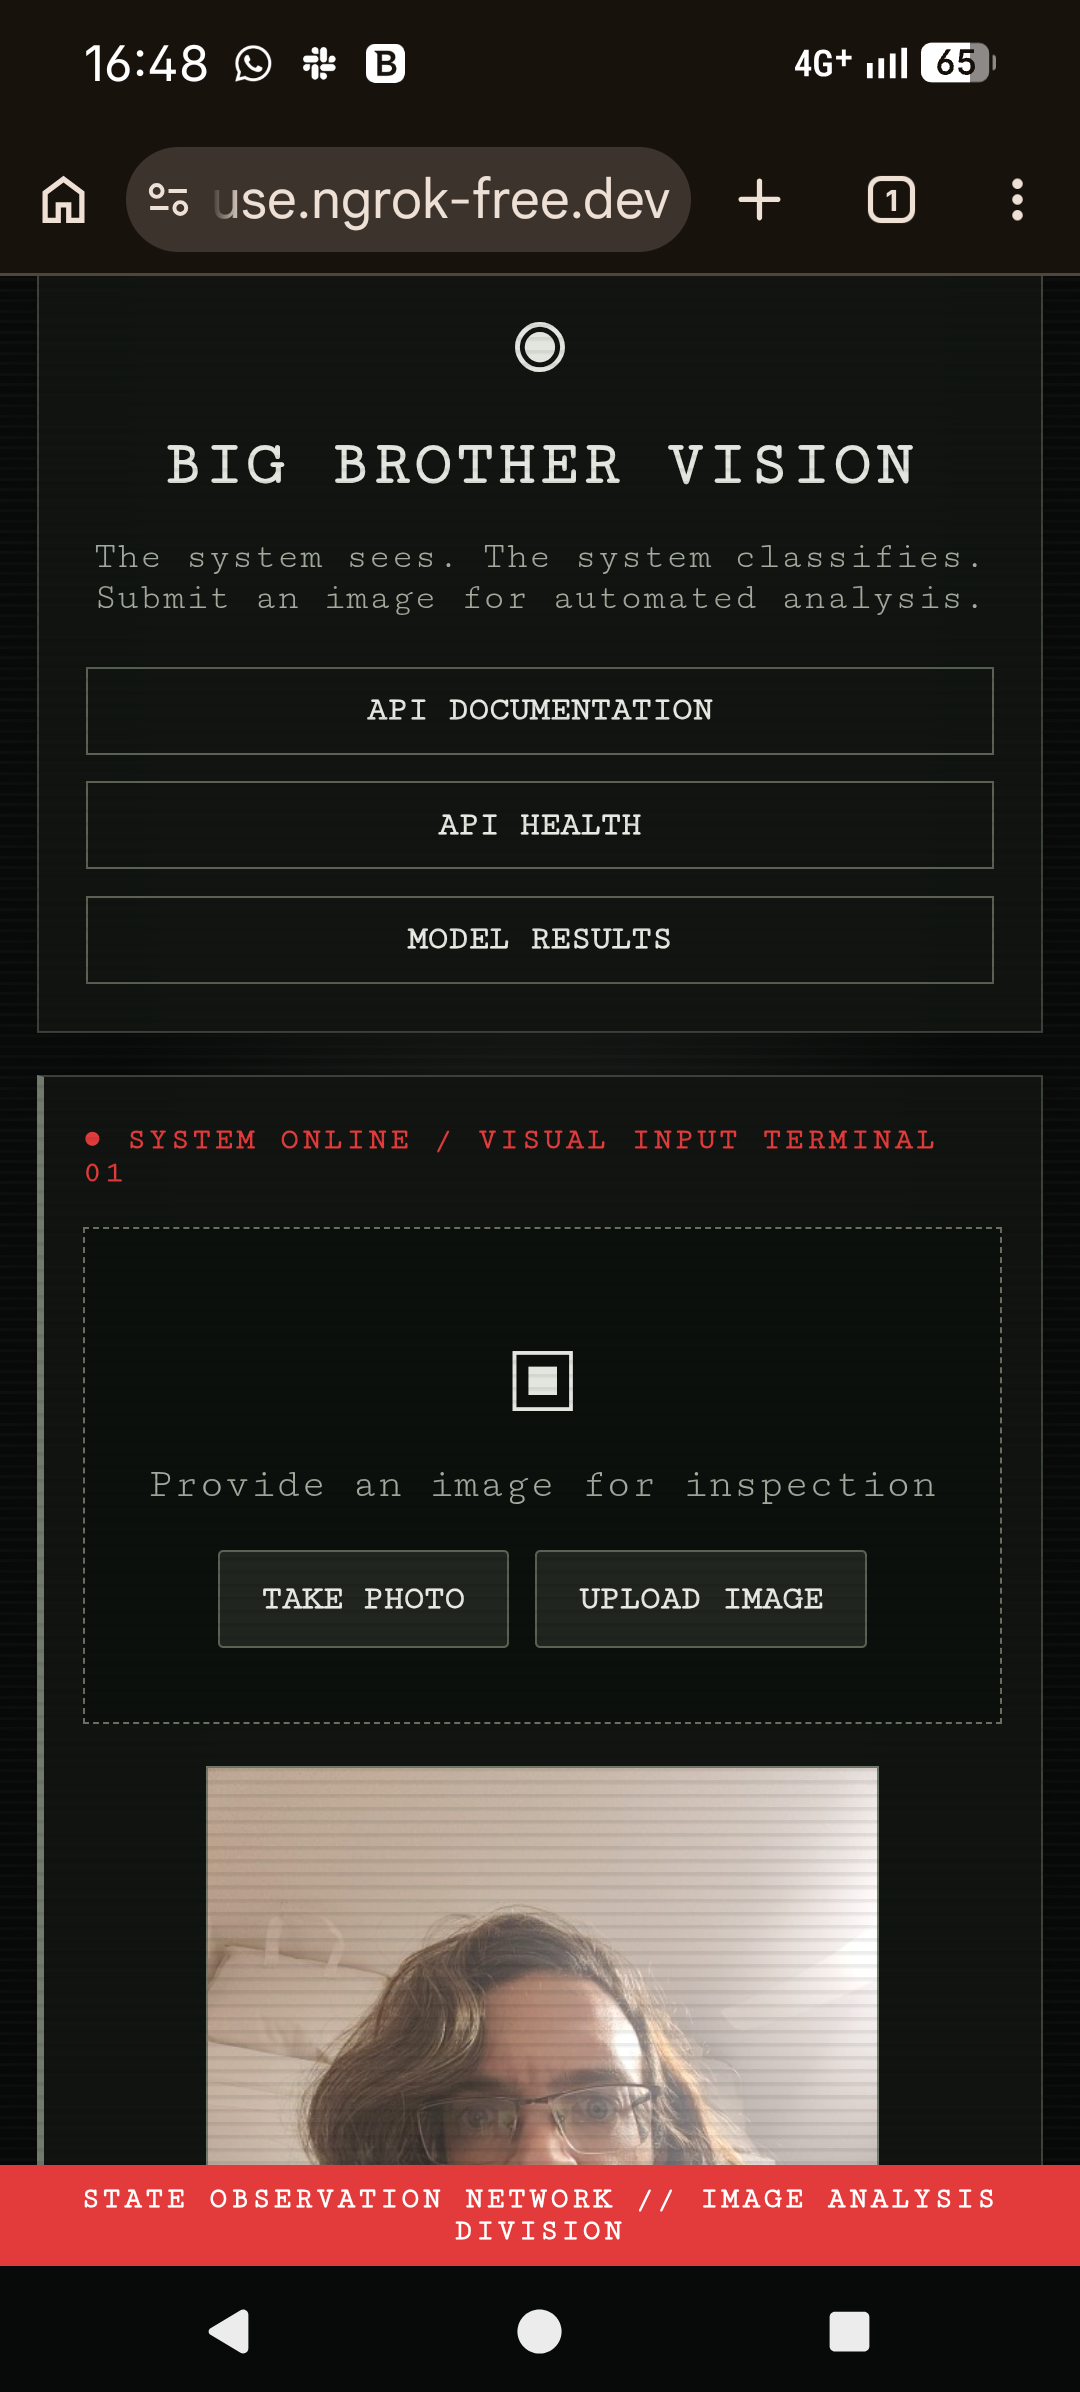
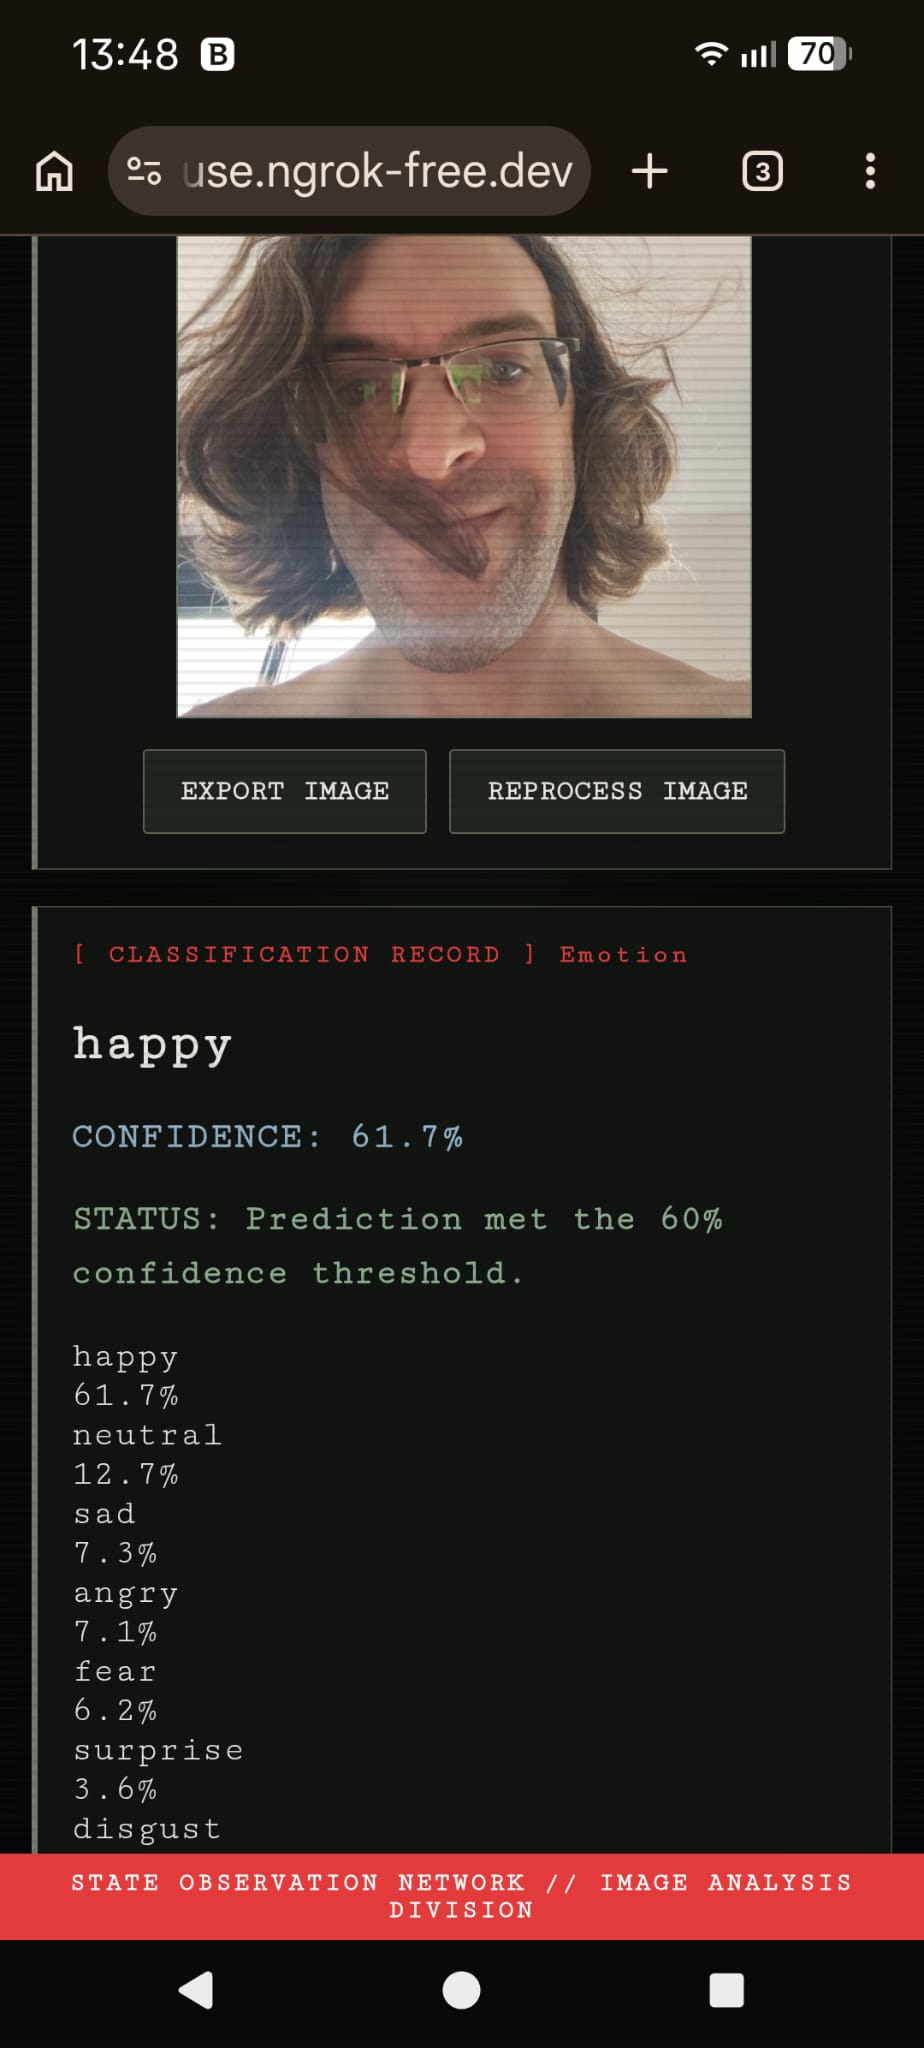
Minor changes

diff --git a/static/styles.css b/static/styles.css
@@ -14,10 +14,6 @@ h1 { text-transform: uppercase; font-size: clamp(1.5rem,4vw,2.4rem); letter-spac
 .nav-links a:hover { border-color: var(--red); background: #252a23; }
 .card { padding: 22px; border-left: 3px solid #727a6d; }
 .status-line { margin-bottom: 14px; }
-.classifier-picker { display: grid; gap: 9px; margin: 0 0 16px; padding: 16px; border: 1px solid var(--line); background: rgba(12,16,13,.8); }
-.classifier-picker label { color: var(--red); font-size: .75rem; font-weight: 700; letter-spacing: .12em; }
-.classifier-picker select { width: 100%; padding: 12px; border: 1px solid #596253; border-radius: 2px; background: #20251f; color: #e7e9e2; font: 700 .9rem var(--mono); }
-.classifier-picker p { margin: 0; color: #a3ab9e; font-size: .8rem; }
 .drop { border: 1px dashed #68715f; padding: 28px 16px; text-align: center; background: #0c100d; }
 .drop.over { border-color: var(--red); background: #211312; }
 .big { font-size: 2.4rem; }
@@ -57,17 +53,67 @@ html[data-theme="light"] body { color: #20251f; background: #d9ddd3; background-
 html[data-theme="light"] .site-header, html[data-theme="light"] .card { background: rgba(241,243,237,.97); border-color: #a8afa1; }
 html[data-theme="light"] .site-header p, html[data-theme="light"] .drop p, html[data-theme="light"] footer { color: #50584d; }
 html[data-theme="light"] .drop { background: #e8ebe3; }
-html[data-theme="light"] .classifier-picker { background: #e8ebe3; }
-html[data-theme="light"] .classifier-picker select { background: #dce1d7; color: #20251f; border-color: #a8afa1; }
-html[data-theme="light"] .classifier-picker p { color: #50584d; }
 html[data-theme="light"] button, html[data-theme="light"] .nav-links a { background: #dce1d7; color: #20251f; border-color: #a8afa1; }
 html[data-theme="light"] .results .res { background: #f5f6f1; border-color: #b9c0b2; }
 html[data-theme="light"] .bar .n, html[data-theme="light"] .bar .p { color: #50584d; }
 @keyframes rise { from { opacity: 0; transform: translateY(8px); } to { opacity: 1; transform: none; } }
 @media (max-width: 520px) { .card { padding: 15px; } .bar .n { width: 88px; } .nav-links { flex-direction: column; } .theme-toggle { position: absolute; } }
 
-/* Prediction summary: labels use muted blue; outcome status uses green/red. */
-.confidence-label { color: #8faec2; font-weight: 700; letter-spacing: .04em; }
-.status-label { font-weight: 700; line-height: 1.5; }
-.status-accepted { color: #8ba88c; }
-.status-rejected { color: #d97878; }
+
+/* Interaction and accessibility fixes */
+html { min-width: 0; }
+body { overflow-wrap: anywhere; }
+.nav-links a, .page-nav a {
+  display: inline-flex;
+  align-items: center;
+  justify-content: center;
+  min-height: 42px;
+  line-height: 1.35;
+  text-align: center;
+  overflow-wrap: anywhere;
+}
+.nav-links a:focus-visible, .page-nav a:focus-visible, button:focus-visible {
+  outline: 3px solid var(--red);
+  outline-offset: 3px;
+}
+.drop.over { border-color: var(--red); background: #211312; }
+#stage.scanning .scan { display: block; }
+#stage.scanning .scan-label::after { content: " "; }
+#out { min-width: 0; overflow-wrap: anywhere; }
+#out .probability-row {
+  display: grid;
+  grid-template-columns: minmax(70px, 140px) minmax(40px, 1fr) 58px;
+  align-items: center;
+  gap: 10px;
+  margin: 10px 0;
+}
+#out .probability-label, #out .probability-value { overflow-wrap: anywhere; }
+#out .probability-track { height: 9px; background: #2c332b; overflow: hidden; }
+#out .probability-fill { height: 100%; background: var(--red); transition: width .35s ease; }
+#out .confidence { font-weight: 700; }
+#out .threshold { font-size: .85rem; }
+#out .room101 { color: var(--red); font-weight: 700; overflow-wrap: anywhere; }
+#out .error { border: 1px solid var(--red); padding: 12px; overflow-wrap: anywhere; }
+button:disabled { opacity: .55; cursor: progress; }
+
+html[data-theme="light"] .drop.over { background: #f6e8e5; }
+html[data-theme="light"] #out .probability-track { background: #d8ddd3; }
+html[data-theme="light"] #out .error { background: #fff0ee; color: #6d1717; }
+html[data-theme="light"] #out .room101 { color: #a51f1f; }
+
+@media (max-width: 520px) {
+  body { padding: 58px 10px 58px; }
+  .site-header { padding: 48px 14px 16px; }
+  .nav-links, .page-nav {
+    display: grid;
+    grid-template-columns: minmax(0, 1fr);
+    width: 100%;
+  }
+  .nav-links a, .page-nav a { width: 100%; }
+  .theme-toggle { position: fixed; top: 8px; right: 8px; z-index: 25; }
+  #out .probability-row {
+    grid-template-columns: minmax(68px, 100px) minmax(35px, 1fr) 52px;
+    gap: 7px;
+    font-size: .78rem;
+  }
+}

diff --git a/results.html b/results.html
@@ -25,9 +25,6 @@
     .history-details pre { overflow:auto; padding:12px; border:1px solid #434b40; white-space:pre-wrap; overflow-wrap:anywhere; }
     html[data-theme="light"] .metric, html[data-theme="light"] .history-details pre { background:#f5f6f1; border-color:#b9c0b2; }
     html[data-theme="light"] .metric .label, html[data-theme="light"] .artifact-grid figcaption, html[data-theme="light"] .hint { color:#50584d; }
-    html[data-theme="light"] .artifact-grid img { background:#fff; border-color:#b9c0b2; }
-    html[data-theme="light"] .page-nav a { border-color:#aab3a3; }
-    html[data-theme="light"] .page-nav a:hover { border-color:#b94a48; }
     @media (max-width:520px) { .artifact-grid { grid-template-columns:1fr; } }
   </style>
 </head>
@@ -36,7 +33,7 @@
   <header class="site-header">
     <div class="eyebrow">MODEL EVALUATION / REPORTING</div>
     <h1>Model Results</h1>
-    <p>Evaluation metrics and saved training artefacts for the three selectable CNN classifiers: Emotion, Fruit and Mask.</p>
+    <p>Training history, learning curves and confusion matrices saved by the CNN project.</p>
     <nav class="page-nav" aria-label="Project links">
       <a href="/">Back to classifier</a>
       <a href="/docs" target="_blank" rel="noopener">API documentation</a>
@@ -50,7 +47,7 @@
     </section>
     <section class="card">
       <div class="status-line">● SAVED MODEL ARTEFACTS</div>
-      <p class="hint">These are existing files in the project's <code>results/</code> directory. Metrics are read from saved training-history JSON files; no values are fabricated. The router is no longer used: choose Emotion, Fruit or Mask on the classifier page.</p>
+      <p class="hint">These are existing files in the project's <code>results/</code> directory. Metrics are read from the saved training-history JSON files; no values are fabricated.</p>
       <div id="artifacts" class="hint">Loading saved artefacts…</div>
     </section>
   </main>
@@ -58,23 +55,14 @@
 <script>
 (() => {
   const $ = id => document.getElementById(id);
-  const rootElement = document.documentElement;
-  const toggle = $("themeToggle");
-  let theme = "dark";
-  try {
-    const saved = localStorage.getItem("vision-theme");
-    if (saved === "light" || saved === "dark") theme = saved;
-  } catch (_) {
-    // Theme still works for this page when browser storage is unavailable.
-  }
-  rootElement.dataset.theme = theme;
-  toggle.textContent = theme === "dark" ? "Light mode" : "Dark mode";
-  toggle.setAttribute("aria-label", "Switch colour theme");
-  toggle.addEventListener("click", () => {
-    const next = rootElement.dataset.theme === "dark" ? "light" : "dark";
-    rootElement.dataset.theme = next;
-    try { localStorage.setItem("vision-theme", next); } catch (_) {}
-    toggle.textContent = next === "dark" ? "Light mode" : "Dark mode";
+  const theme = localStorage.getItem("vision-theme") || "dark";
+  document.documentElement.dataset.theme = theme;
+  $("themeToggle").textContent = theme === "dark" ? "Light mode" : "Dark mode";
+  $("themeToggle").addEventListener("click", () => {
+    const next = document.documentElement.dataset.theme === "dark" ? "light" : "dark";
+    document.documentElement.dataset.theme = next;
+    localStorage.setItem("vision-theme", next);
+    $("themeToggle").textContent = next === "dark" ? "Light mode" : "Dark mode";
   });
 
   const esc = value => String(value).replace(/[&<>"']/g, ch => ({
@@ -83,7 +71,8 @@
   const models = [
     { key: "fer", label: "Emotion", history: "fer_history.json", curves: "fer_curves.png", matrix: "fer_confusion_matrix.png" },
     { key: "fruits", label: "Fruits", history: "fruits_history.json", curves: "fruits_curves.png", matrix: "fruits_confusion_matrix.png" },
-    { key: "mask", label: "Mask", history: "mask_history.json", curves: "mask_curves.png", matrix: "mask_confusion_matrix.png" }
+    { key: "mask", label: "Mask", history: "mask_history.json", curves: "mask_curves.png", matrix: "mask_confusion_matrix.png" },
+    { key: "router", label: "Router", history: "router_history.json", curves: null, matrix: null }
   ];
   const resultUrl = name => "/results/" + encodeURIComponent(name);
 

diff --git a/index.html b/index.html
@@ -23,15 +23,6 @@
   <main>
     <section class="card">
       <div class="status-line">● SYSTEM ONLINE / VISUAL INPUT TERMINAL 01</div>
-      <div class="classifier-picker">
-        <label for="classifier">CLASSIFIER</label>
-        <select id="classifier" name="classifier">
-          <option value="emotion">Emotion recognition</option>
-          <option value="fruit">Fruit classification</option>
-          <option value="mask">Face-mask classification</option>
-        </select>
-        <p>Choose the model that matches the image before submitting it.</p>
-      </div>
       <div id="drop" class="drop">
         <div class="big">▣</div>
         <p>Provide an image for inspection</p>
